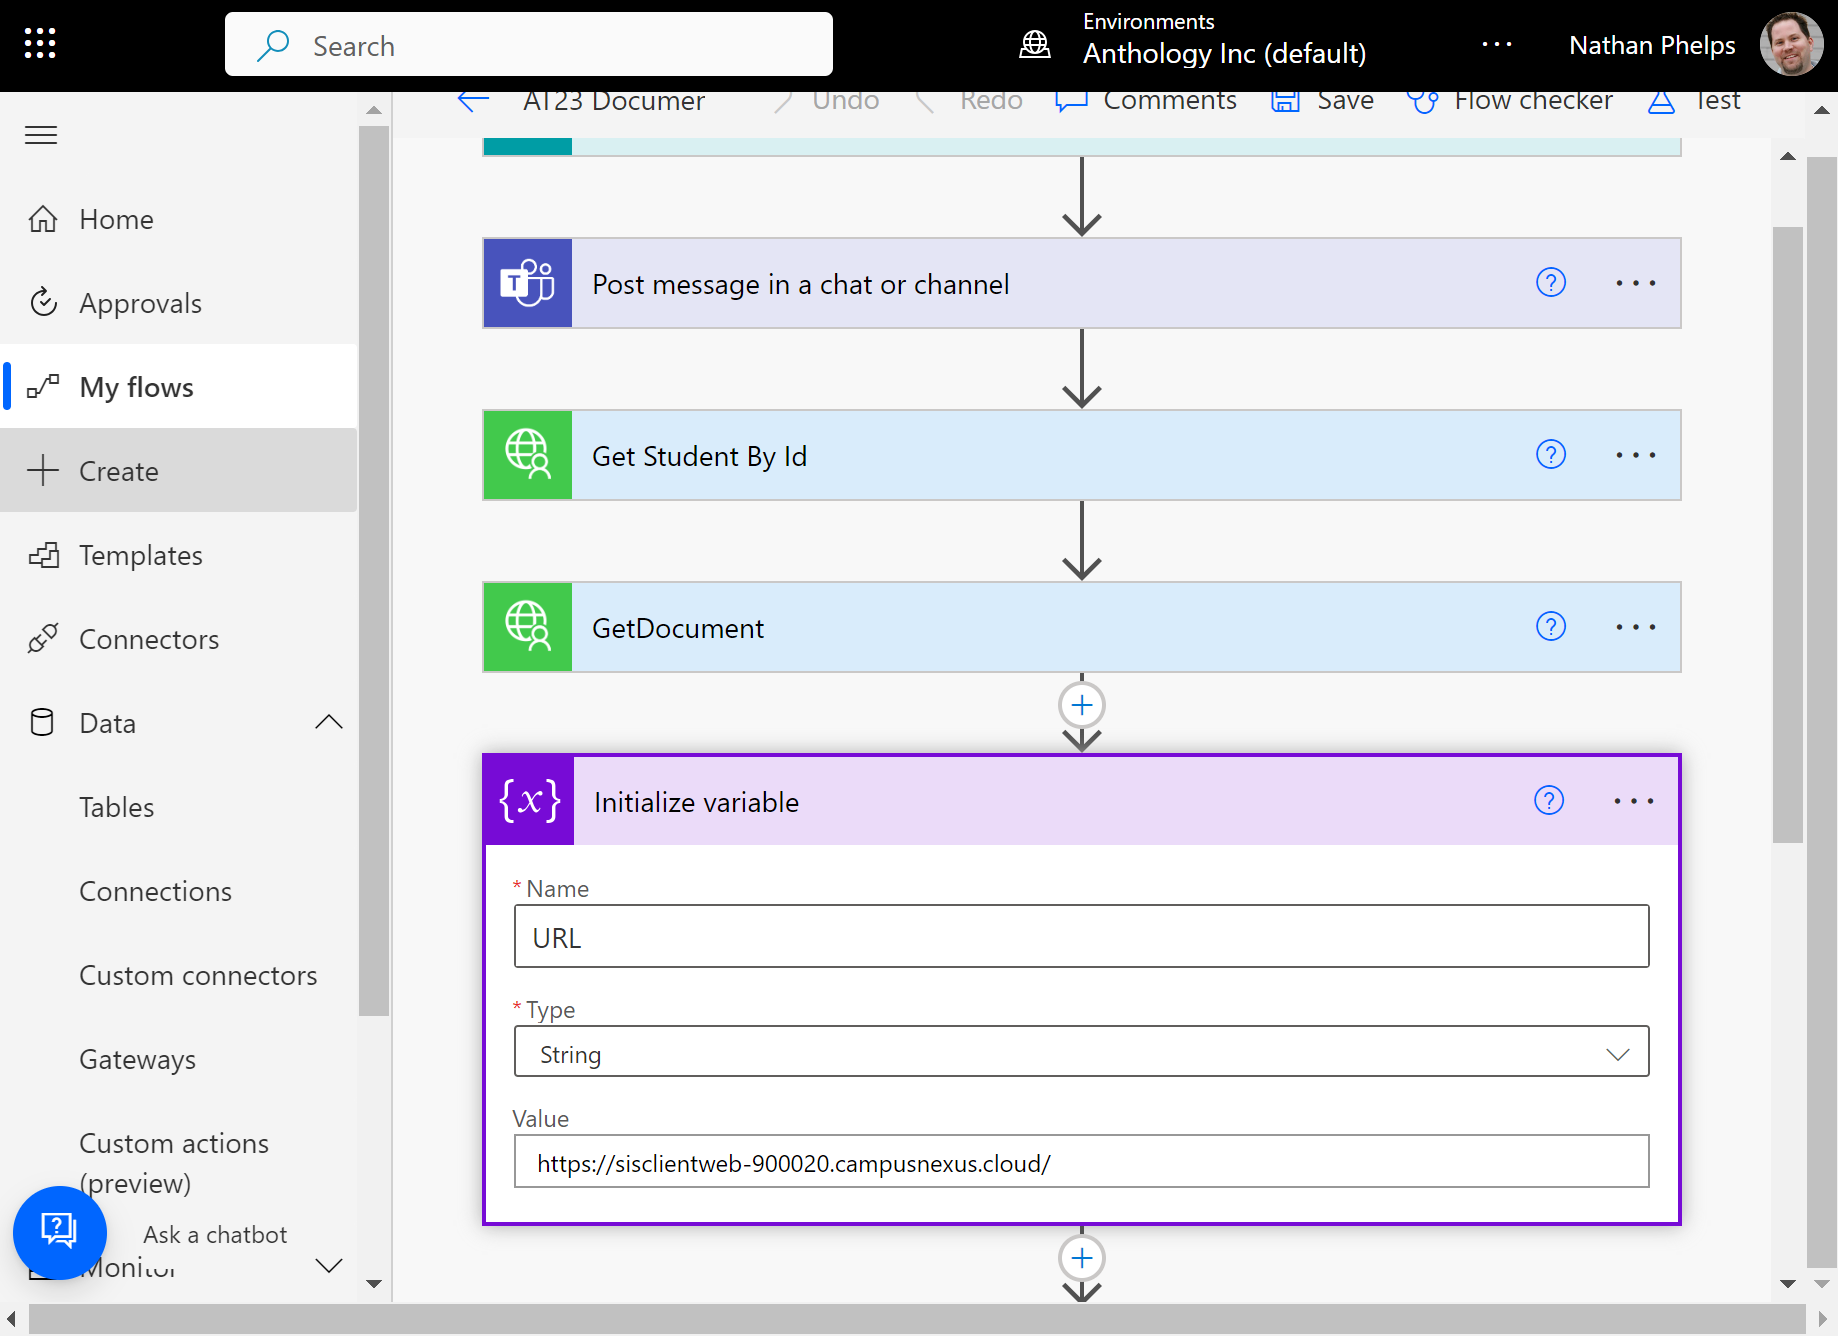
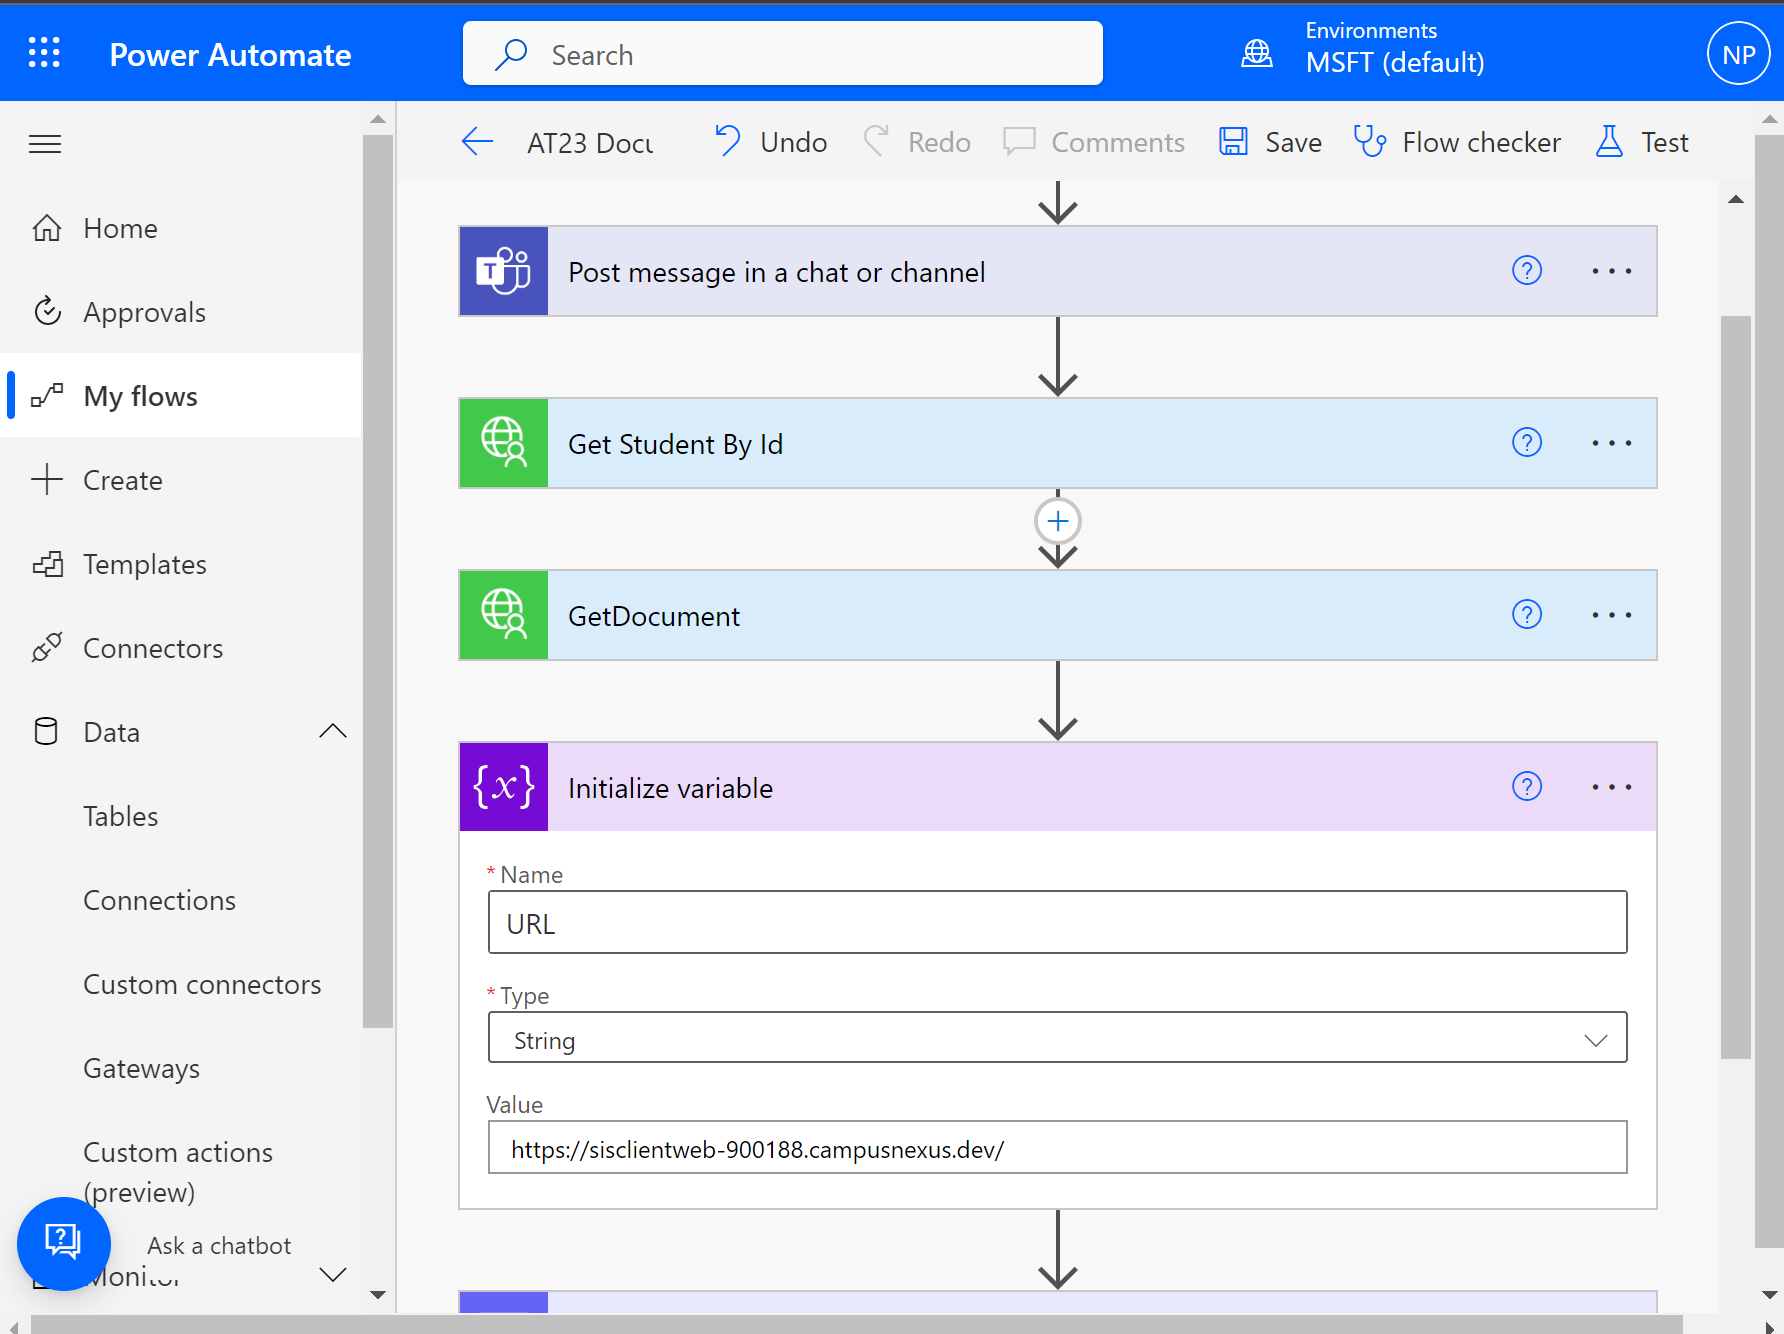
Localize to Student env and add some additional screenshots

diff --git a/README.md b/README.md
@@ -329,8 +329,9 @@ Note: You will need the ApiKey from your Anthology Student instance in order to 
 
 3. Enter `URL` in the `Name` field
 4. Select `string` in the `Type` field 
-5. Enter the full URL to your Anthology Student environment in the `Value` field
+5. Enter `https://sisclientweb-900188.campusnexus.dev/` in the `Value` field
 
+![Alt text](image.png)
 ![Screenshot of the URL variable step](screenshots/32.png)
 
 6. Repeat the above instructions to add a new `Initialize variable` step below the `URL` variable
@@ -383,13 +384,17 @@ Note: Some of the data will we use in the step will be particular to your enviro
 
 4. Select `Completion Date` for the `approvedDate` field
 5. Select `Response Comments` for the `note` field
-6. Enter the integer value for your Anthology Student instance's `Approved` status in the `documentStatusId` field
+6. Enter `11` for the `documentStatusId` field (this is the Id for `Approved`)
 7. Map all the remaining fields to the `Document` instance retrieved via the API previously using the following expression:
 
 ```javascript
 outputs('GetDocument')?['body/payload/data/<FIELDNAMEHERE>']
 ```
 
-8. Repeat the steps above for `Denied` using the integer value for your Anthology Student instance's `Denited` status in the `documentStatusId` field
+![Screenshot of the Update Studnet dialog](screenshots/38.png)
+
+8. Repeat the steps above for `Denied` using `12` for the `documentStatusId` field
 9. Test the flow
 10. Verify that the appropriate Document was updated in Anthology Student accordingly
+
+![Screenshot of the Update Studnet dialog](screenshots/39.png)
